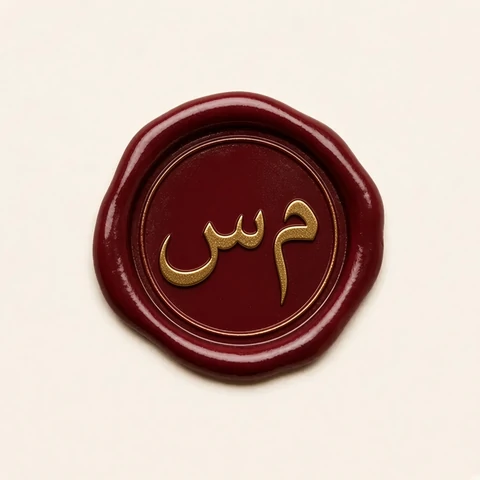
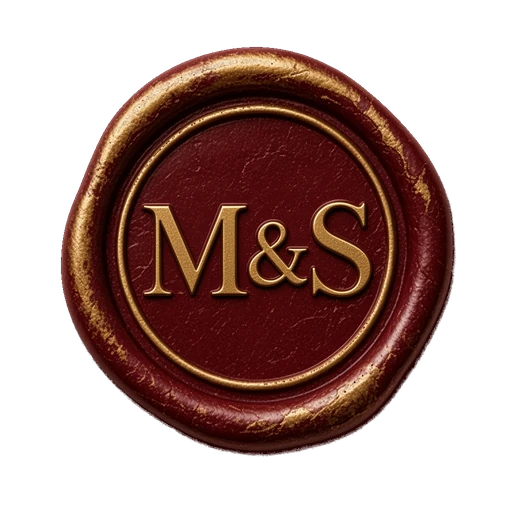
Replace the wax seal with English M & S and a cleaner open
The cream square behind the Arabic seal showed on the burgundy envelope. Use a transparent M & S wax stamp and lift the seal away before the flap opens.

diff --git a/index.html b/index.html
@@ -397,27 +397,12 @@
       transform: rotateX(180deg);
     }
     .env-seal {
-      position: absolute; left: 50%; top: 44%;
-      width: 78px; height: 78px; margin-left: -39px;
-      z-index: 8; transform: translateY(-42%);
-      filter: drop-shadow(0 6px 10px rgba(80,30,30,0.28));
-      border-radius: 50%;
-      overflow: hidden;
-      mix-blend-mode: multiply;
-    }
-    .envelope.is-opening .env-seal { overflow: visible; mix-blend-mode: normal; }
-    .seal-half {
-      position: absolute; inset: 0;
-      background: url("assets/wax-seal.webp") center / cover no-repeat;
-      will-change: transform;
-    }
-    .seal-half.left { clip-path: inset(0 50% 0 0); }
-    .seal-half.right { clip-path: inset(0 0 0 50%); }
-    .seal-crack {
-      position: absolute; left: 50%; top: 18%; bottom: 18%; width: 1px;
-      background: linear-gradient(180deg, transparent, rgba(60,20,20,0.0), transparent);
-      transform: translateX(-50%);
-      opacity: 0;
+      position: absolute; left: 50%; top: 28%;
+      width: 72px; height: 72px; margin-left: -36px;
+      z-index: 8;
+      object-fit: contain;
+      filter: drop-shadow(0 7px 12px rgba(32,6,10,0.42));
+      pointer-events: none;
     }
     .env-roses {
       position: absolute; right: -6px; top: 10px;
@@ -911,11 +896,7 @@
             </div>
             <div class="flap-face flap-liner"></div>
           </div>
-          <div class="env-seal" id="envSeal">
-            <div class="seal-half left"></div>
-            <div class="seal-half right"></div>
-            <div class="seal-crack"></div>
-          </div>
+          <img class="env-seal" id="envSeal" src="assets/wax-seal.webp" alt="">
           <img class="env-roses" src="assets/burgundy-florals.webp" alt="" />
         </div>
       </div>
@@ -1384,19 +1365,17 @@
           finishOpen(); return;
         }
         const tl = gsap.timeline({ onComplete: finishOpen });
-        tl.to(btn, { opacity: 0, y: 10, duration: 0.32, ease: "power2.out" }, 0)
-          .to(".seal-crack", { opacity: 0.8, duration: 0.2 }, 0.1)
-          .to("#envSeal .left", { x: -20, y: 10, rotation: -12, opacity: 0, duration: 0.7, ease: "power2.inOut" }, 0.2)
-          .to("#envSeal .right", { x: 20, y: 10, rotation: 12, opacity: 0, duration: 0.7, ease: "power2.inOut" }, 0.2)
-          .to(".env-roses", { opacity: 0.18, y: 8, duration: 0.55, ease: "power2.out" }, 0.28)
-          .to(flap, { rotateX: -172, duration: 1.4, ease: "power2.inOut" }, 0.38)
-          .to(card, { opacity: 1, duration: 0.4, ease: "power1.out" }, 0.95)
-          .set(card, { zIndex: 7 }, 1.08)
-          .to(card, { y: -118, duration: 1.2, ease: "lux" }, 1.1)
-          .add(burstPetals, 1.28)
-          .add(() => { $("#invite").classList.add("is-on"); }, 1.7)
-          .to(".kicker, .names-script, .landing-rule, .landing-corner", { opacity: 0, duration: 0.5, ease: "power2.out" }, 1.55)
-          .to("#landing", { opacity: 0, duration: 0.9, ease: "power2.inOut" }, 1.95);
+        tl.to(btn, { opacity: 0, y: 8, duration: 0.28, ease: "power2.out" }, 0)
+          .to("#envSeal", { y: -16, scale: 0.84, opacity: 0, duration: 0.55, ease: "power2.inOut" }, 0.06)
+          .to(".env-roses", { opacity: 0.12, duration: 0.45, ease: "power2.out" }, 0.16)
+          .to(flap, { rotateX: -160, duration: 1.45, ease: "power2.inOut" }, 0.28)
+          .to(card, { opacity: 1, duration: 0.5, ease: "power1.out" }, 0.92)
+          .set(card, { zIndex: 7 }, 1.05)
+          .to(card, { y: -92, duration: 1.15, ease: "lux" }, 1.08)
+          .add(burstPetals, 1.22)
+          .add(() => { $("#invite").classList.add("is-on"); }, 1.75)
+          .to(".kicker, .names-script, .landing-rule, .landing-corner", { opacity: 0, duration: 0.5, ease: "power2.out" }, 1.58)
+          .to("#landing", { opacity: 0, duration: 0.9, ease: "power2.inOut" }, 1.98);
       }
 
       function finishOpen() {
